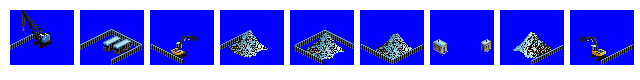
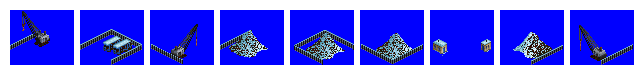
Feature: date-sensitive graphics for Junk Yard; also close a logic bug with date sensitive graphics (#4661)

Changed region(s): [[0.25, 0.3, 0.3125, 0.725], [0.9062, 0.325, 0.9688, 0.75], [0.0312, 0.175, 0.0938, 0.6]]

diff --git a/src/firs.py b/src/firs.py
@@ -315,7 +315,7 @@ class Industry(object):
         elif date_variation_index == len(self.graphics_change_dates):
             return "|| (current_year + " + random_offset + ") < " + str(self.graphics_change_dates[date_variation_index - 1]) # last set of graphics, hide before last change date
         else:
-            return "|| (current_year + " + random_offset + ") < " + str(self.graphics_change_dates[date_variation_index - 1]) + " || (current_year + " + random_offset + ") >= " + str(self.graphics_change_dates[date_variation_index - 2])
+            return "|| (current_year + " + random_offset + ") < " + str(self.graphics_change_dates[date_variation_index - 1]) + " || (current_year + " + random_offset + ") >= " + str(self.graphics_change_dates[date_variation_index])
 
     def get_spritesets(self):
         template = templates['spritesets.pynml']

diff --git a/src/industries/junk_yard.py b/src/industries/junk_yard.py
@@ -38,7 +38,8 @@ industry = Industry(id='junk_yard',
                     name='string(STR_IND_JUNKYARD)',
                     nearby_station_name='string(STR_STATION, string(STR_TOWN), string(STR_IND_JUNKYARD))',
                     fund_cost_multiplier='101',
-                    closure_msg='TTD_STR_NEWS_INDUSTRY_CLOSURE_SUPPLY_PROBLEMS')
+                    closure_msg='TTD_STR_NEWS_INDUSTRY_CLOSURE_SUPPLY_PROBLEMS',
+                    graphics_change_dates = [1949, 1960, 1980, 2000])
 
 industry.add_tile(id='junk_yard_tile')
 
